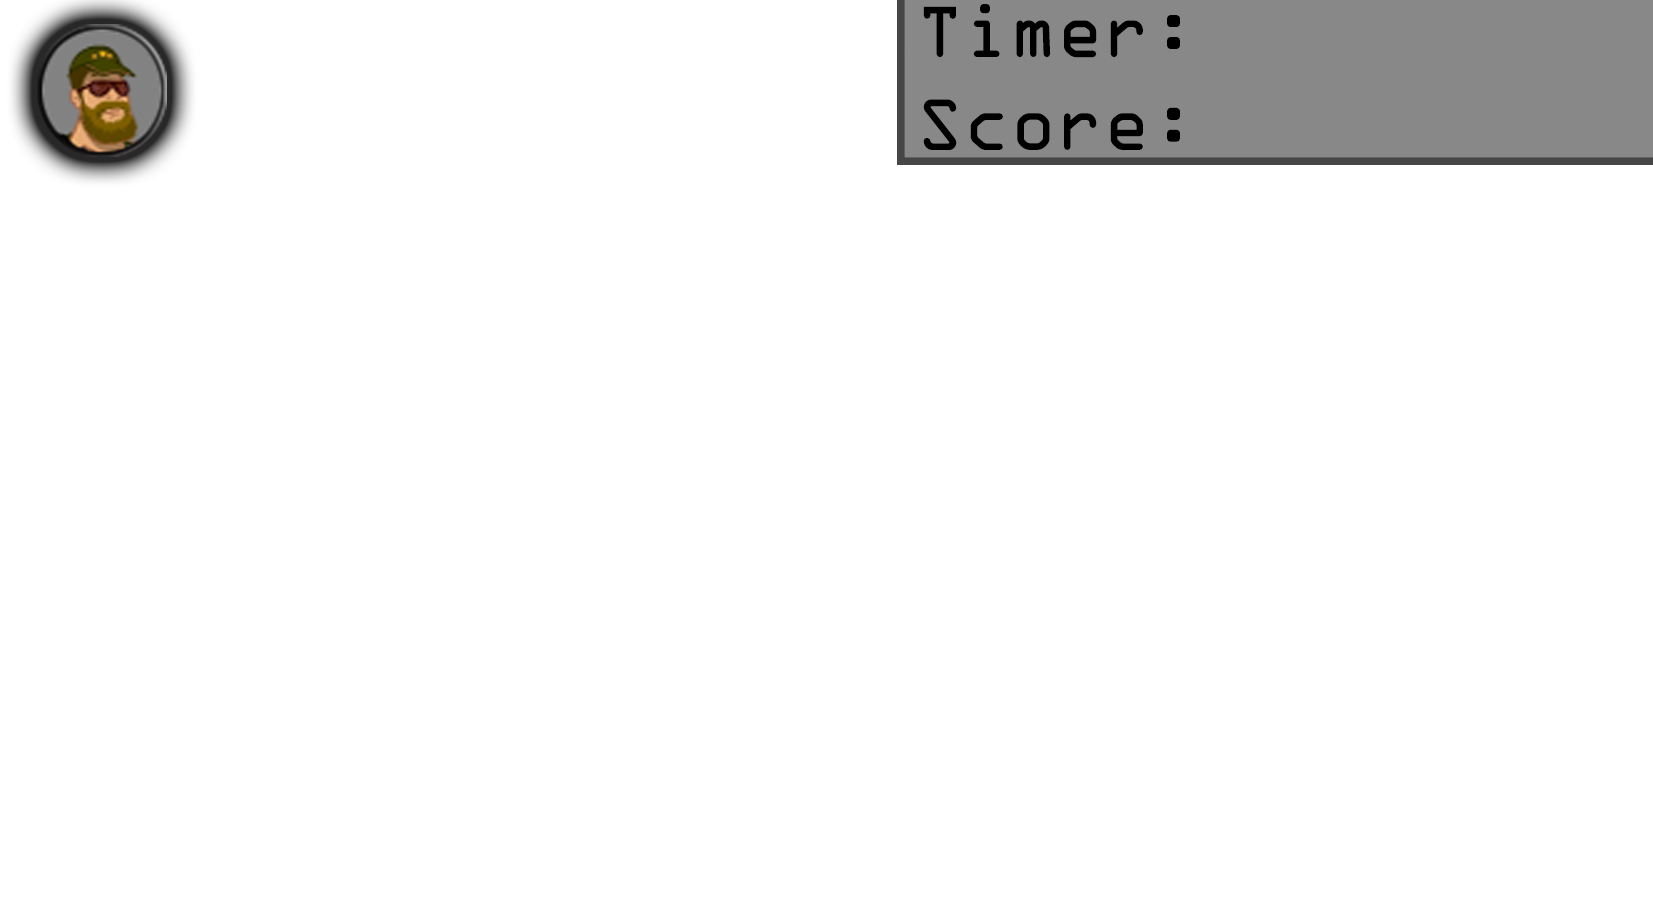
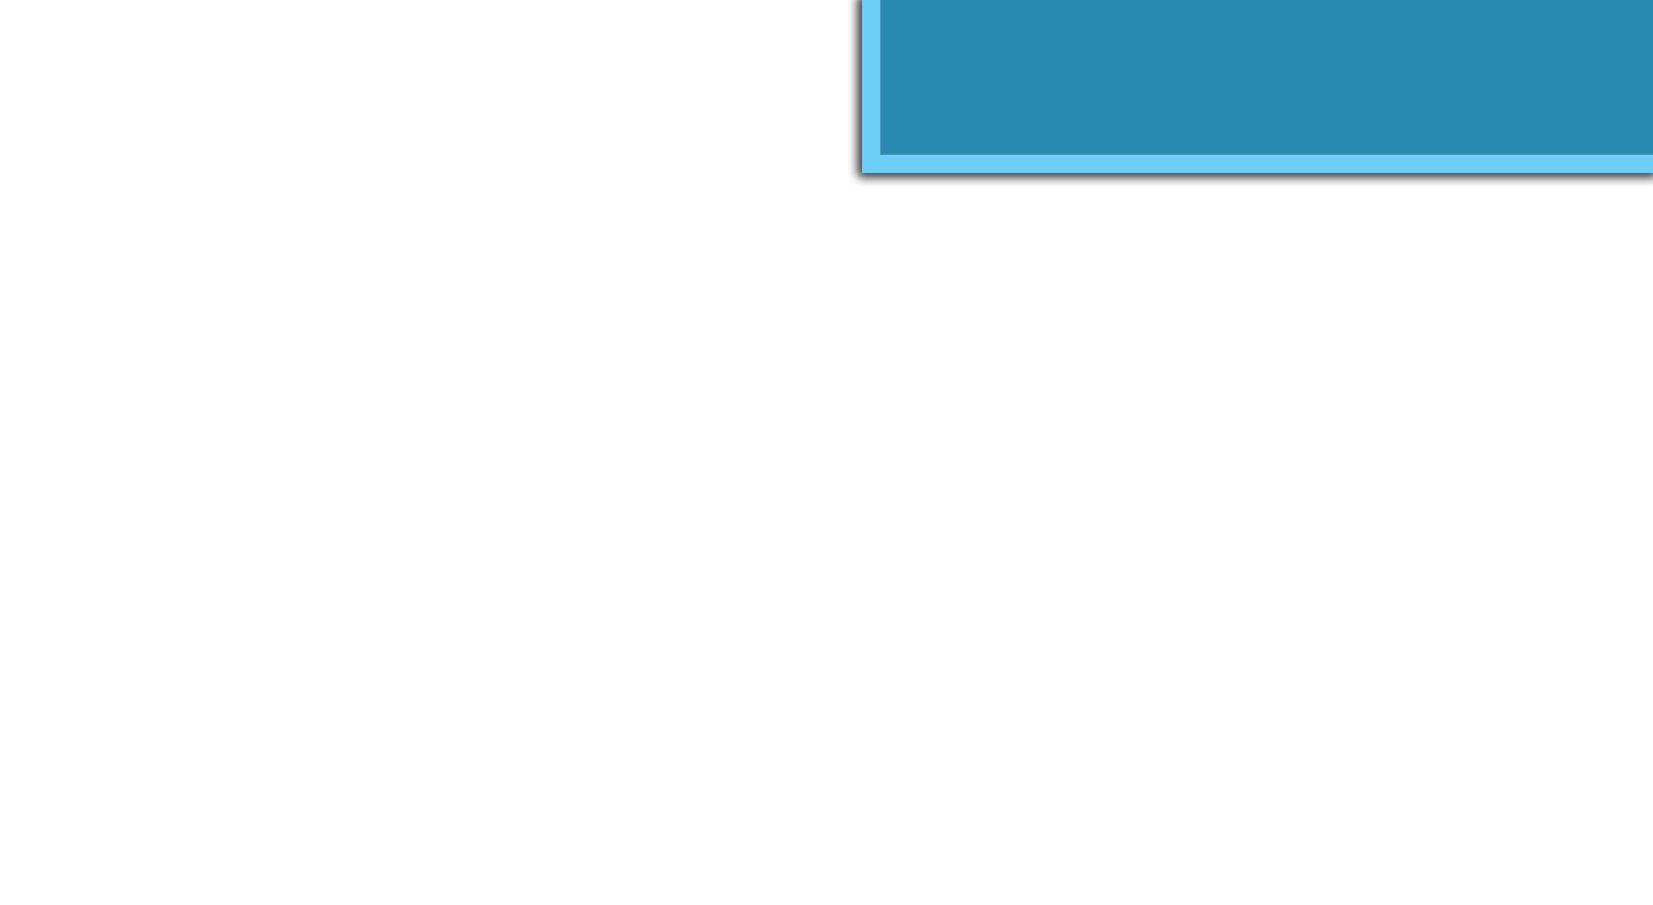
Hud Finished

Changed region(s): [[0.4936, 0.0, 1.0, 0.2166], [0.0, 0.0, 0.1234, 0.2166]]

diff --git a/main.js b/main.js
@@ -5,6 +5,8 @@ var context = canvas.getContext("2d");
 var startFrameMillis = Date.now();
 var endFrameMillis = Date.now();
 
+
+
 // This function will return the time in seconds since the function 
 // was last called
 // You should only call this function once per frame
@@ -206,12 +208,19 @@ function drawMap(cam_offset)
 var keyboard = new Keyboard();
 var player = new Player();
 
+
+var timer = 0;
+var score = 0;
+
+
+
 function run()
 {
 	context.fillStyle = "#ccc";		
 	context.fillRect(0, 0, canvas.width, canvas.height);
 	
 	var deltaTime = getDeltaTime();
+	timer += deltaTime;
 	
 	if ( deltaTime > 0.03 )
 	{
@@ -222,6 +231,15 @@ function run()
 	player.update(deltaTime);
 	player.draw();
 	
+	context.fillStyle = "darkblue";
+	context.font = "36px Arial";
+	var textToDisplay = "Timer: " + Math.floor(timer) + " Seconds";
+	context.fillText(textToDisplay, 1660, 45);
+	
+	context.fillStyle = "darkblue";
+	context.font = "36px Arial";
+	var textToDisplay = "Score: " + score + " Falling Points";
+	context.fillText(textToDisplay, 1660, 90);
 		
 	// update the frame counter 
 	fpsTime += deltaTime;

diff --git a/player.js b/player.js
@@ -79,7 +79,7 @@ Player.prototype.changeDirectionalAnimation = function(leftAnim, rightAnim)
 
 
 Player.prototype.update = function(deltaTime)
-{
+{ 
 	this.sprite.update(deltaTime);
 
 	var acceleration = new Vector2();
@@ -106,13 +106,14 @@ Player.prototype.update = function(deltaTime)
 	if ( this.velocity.y > 0 )
 	{
 		this.falling = true;
+		score += 1;
 	}
 	else
 	{
 		this.falling = false;
 	}
 	
-	if ( keyboard.isKeyDown(keyboard.KEY_SPACE) && !this.jumping && !this.falling)
+	if ( keyboard.isKeyDown(keyboard.KEY_UP) && !this.jumping && !this.falling)
 	{
 		acceleration.y -= jumpForce;
 		this.jumping = true;
@@ -218,4 +219,5 @@ Player.prototype.update = function(deltaTime)
 Player.prototype.draw = function()
 {
 	this.sprite.draw(context, this.position.x, this.position.y);
+	
 }
